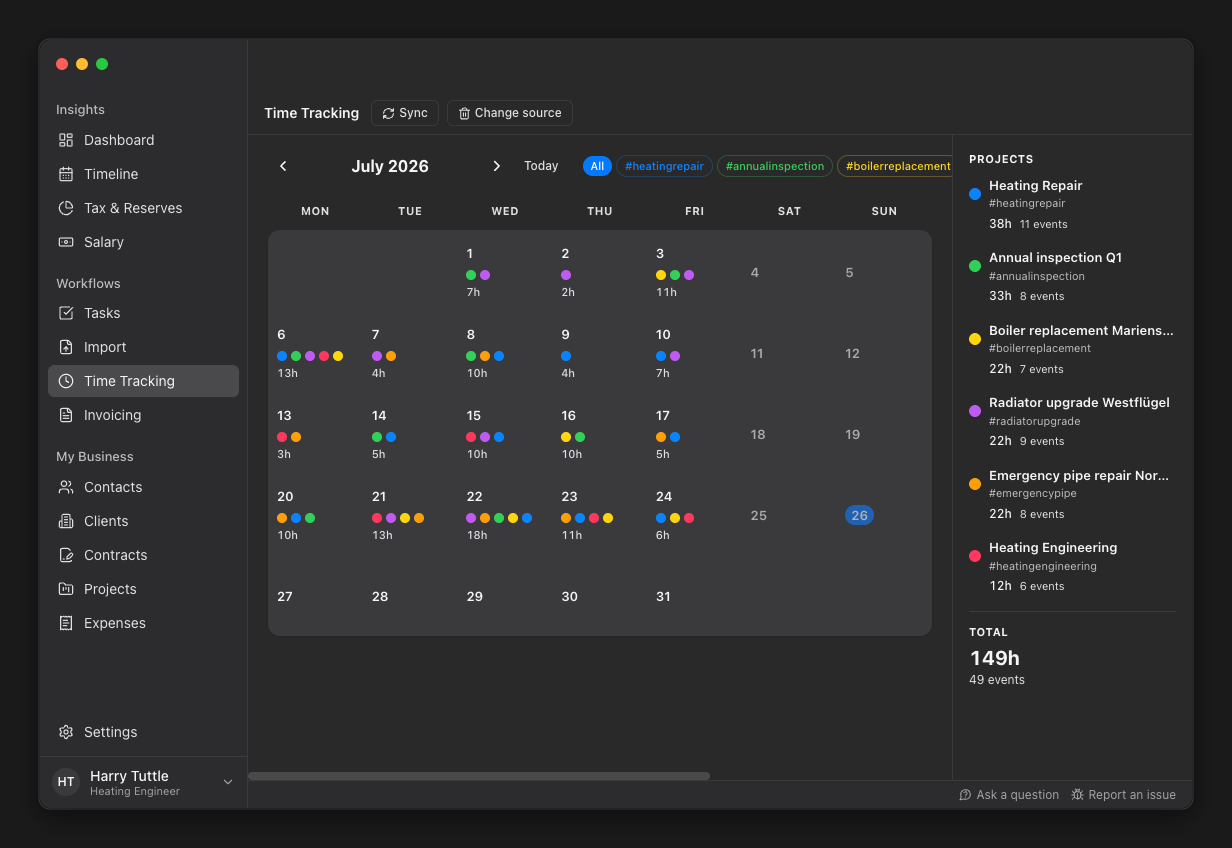
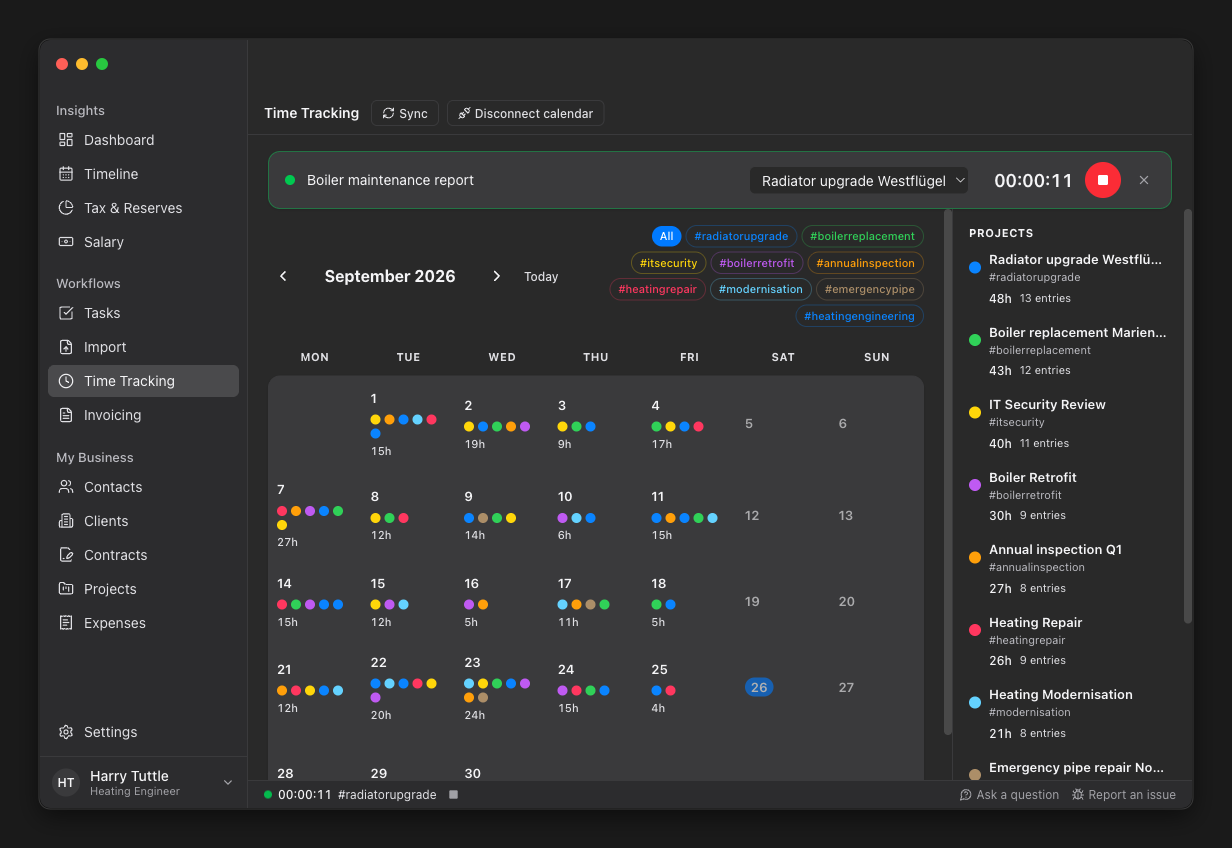
Update the README to the current feature set (#533)
Add clients/contracts/projects, expenses, timeline and tasks, and the
timer; keep each feature to a line or two. Replace the time-tracking
screenshot with one showing the running timer, captured from demo data
in an empty data directory.

diff --git a/README.md b/README.md
@@ -40,12 +40,12 @@
 
 Tuttle is a desktop app that takes the paperwork off your plate as a freelancer:
 
-- **Track your time** — import from your calendar, a calendar file, or your favorite time-tracking tool.
-- **Generate invoices and timesheets** — from tracked time, from manual entries, or for fixed-price contracts. Export to PDF, send by email. Invoices are generated as Factur-X / ZUGFeRD electronic invoices by default.
-- **Import documents with AI** — drop an existing invoice or contract PDF and let Tuttle extract the data automatically.
-- **See your business at a glance** — dashboard with revenue, outstanding invoices, project budgets, and key performance indicators.
-- **Know what you can spend** — tax and VAT reserve estimates, income forecasting, and an effective salary calculation show how much of your revenue is actually yours.
-- **Keep your data private** — everything is processed and stored locally on your device, with no central data collection.
+- **Track your time** — with a timer, by hand, or imported from your calendar.
+- **Invoice** — from tracked time or fixed-price milestones, as Factur-X / ZUGFeRD e-invoices.
+- **Import documents with AI** — extract data from existing invoices and contracts.
+- **See your business at a glance** — revenue, outstanding invoices, budgets, goals.
+- **Know what you can spend** — tax reserves, expenses, and your effective salary.
+- **Keep your data private** — stored locally, no account, no central server.
 
 ## Mission Statement
 
@@ -58,39 +58,45 @@ Tuttle brings all of this into one place. It is a desktop app tailored to solo f
 
 ### Dashboard
 
-Get an overview of your freelance business at a glance: revenue, outstanding invoices, project budgets, income forecasting and key performance indicators.
+Revenue, outstanding invoices, project budgets, forecasts, and progress towards your financial goals.
 
 <img src="assets/images/screenshot-dashboard.png" width=768 />
 
 ### Time Tracking
 
-Track the time you spend on your projects with the built-in timer, log entries by hand, or import from your calendar, a calendar file, or an export of your favorite time tracking tool.
+Start a timer on a project, log entries by hand, or import from your calendar or time-tracking tool.
 
 <img src="assets/images/screenshot-timetracking.png" width=768 />
 
 ### Invoicing
 
-Generate invoices and timesheets automatically from your time tracking data, or create invoices manually by entering the quantity of hours or days directly. Supports both time-based and fixed-price contracts. Export to PDF and send via email.
-
-Invoices are generated as **Factur-X / ZUGFeRD** electronic invoices by default: machine-readable XML (EN16931) is embedded directly into the PDF, compliant with EU e-invoicing requirements without changing your workflow.
+Invoices and timesheets from tracked time, manual quantities, or fixed-price contracts with deposit and final invoices. Payment reminders, multiple currencies, and a SEPA QR code. Every invoice is a **Factur-X / ZUGFeRD** e-invoice (XRechnung optional), exported to PDF and sent by email.
 
 <img src="assets/images/screenshot-invoices.png" width=768 />
 
+### Clients, Contracts & Projects
+
+Rates, billing cycles, payment schedules and bank accounts per contract; time budgets per project.
+
 ### Tax & Reserves
 
-See how much of your revenue goes to VAT and estimated income tax. A revenue breakdown waterfall shows your spendable income after all reserves.
+How much of your revenue goes to VAT and income tax, and what is left to spend.
 
 <img src="assets/images/screenshot-tax.png" width=768 />
 
-### Salary
+### Salary & Expenses
 
-Calculate your effective monthly salary as a freelancer -- what you can safely pay yourself -- based on paid and outstanding invoices, tax reserves, and recurring expenses.
+What you can safely pay yourself each month, after taxes and recurring expenses.
 
 <img src="assets/images/screenshot-salary.png" width=768 />
 
+### Timeline & Tasks
+
+Key events in chronological order, and a to-do list of what needs your attention.
+
 ### AI Document Import
 
-Drop an invoice or contract PDF and let Tuttle extract the structured data automatically using AI. Imported data flows into your clients, contracts, and invoices.
+Drop an invoice or contract PDF and Tuttle extracts the data — with a local model via Ollama, or any OpenAI-compatible provider.
 
 <img src="assets/images/screenshot-import.png" width=768 />
 
